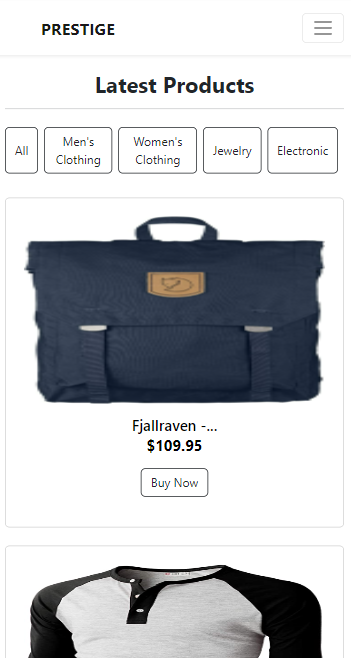
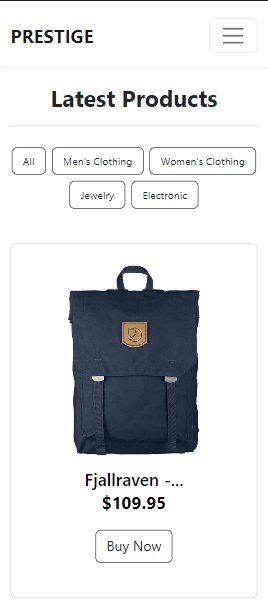
add resize event in portfolio component

diff --git a/src/components/Portfolio/Portfolio.jsx b/src/components/Portfolio/Portfolio.jsx
@@ -1,24 +1,24 @@
 import React, { useRef, useState } from 'react';
 import s from './Portfolio.module.scss';
 import crypto1 from '../../assets/crypto1.jpg';
-import crypto2 from '../../assets/crypto2.jpg';
+import crypto2 from '../../assets/crypto2.png';
 import filmoteka from '../../assets/filmoteka.png';
-import filmoteka2 from '../../assets/filmoteka2.jpg';
+import filmoteka2 from '../../assets/filmoteka2.png';
 import eShop from '../../assets/eShop.jpg';
 import eShop2 from '../../assets/eshop2.png';
 import iceCream from '../../assets/iceCream.jpg';
 import iceCream2 from '../../assets/iceCream2.png';
 import { useEffect } from 'react';
 import Modals from './Modals/Modals';
-import { Swiper, SwiperSlide } from 'swiper/react';
+import MobileSwiper from './MobileSwiper';
 
 const desktopImages = [crypto1, filmoteka, eShop, iceCream];
 const mobileImages = [crypto2, filmoteka2, eShop2, iceCream2];
 const projectTitles = ['Crypto', 'Filmoteka', 'Prestige', 'Ice-cream'];
 
 const Portfolio = () => {
-  const refWrapper = useRef(null);
-  const refImage = useRef(null);
+  const DESKTOP = 'desktop'
+  const MOBILE = 'mobile'
 
   const [activeIndex, setActiveIndex] = useState(0);
   const [isImgHovered, setIsImgHovered] = useState(false);
@@ -28,8 +28,10 @@ const Portfolio = () => {
   const [modalShowFilmoteka, setModalShowFilmoteka] = useState(false);
   const [modalShowPrestige, setModalShowPrestige] = useState(false);
   const [modalShowIceCream, setModalShowIceCream] = useState(false);
-
-  const swiper = document.getElementsByClassName('swiper')[0]?.swiper;
+  const [device, setDevice] = useState(null)
+  
+  const refWrapper = useRef(null);
+  const refImage = useRef(null);
 
   const modalsSetState = [
     setModalShowCrypto,
@@ -37,9 +39,19 @@ const Portfolio = () => {
     setModalShowPrestige,
     setModalShowIceCream
   ];
-
+  
   const prevImgIndex = activeIndex ? activeIndex - 1 : desktopImages.length - 1;
   const nextImgIndex = activeIndex === desktopImages.length - 1 ? 0 : activeIndex + 1;
+
+  useEffect(() => {
+    const handleResize = () => setDevice(window.innerWidth >= 1200 ? DESKTOP : MOBILE)
+    handleResize()
+    window.addEventListener('resize', handleResize)
+
+    return () => {
+      window.removeEventListener('resize', handleResize)
+    }
+  }, [])
 
   useEffect(() => {
     const mouseover = () => setIsImgHovered(true);
@@ -56,14 +68,12 @@ const Portfolio = () => {
 
   useEffect(() => {
     let interval;
-    if (window.innerWidth >= 1200) {
-      if (isImgHovered || slideChangeClick || isModalOpen) {
-        clearInterval(interval);
+    if (device === DESKTOP) {
         if (slideChangeClick) {
           setActiveIndex(Number(slideChangeClick));
           setSlideChangeClick(null);
         }
-      } else {
+      if (!isImgHovered && !slideChangeClick && !isModalOpen) {
         interval = setInterval(() => {
           setActiveIndex((currentIndex) => {
             const nextIndex = currentIndex === desktopImages.length - 1 ? 0 : currentIndex + 1;
@@ -73,7 +83,13 @@ const Portfolio = () => {
       }
     }
     return () => clearInterval(interval);
-  }, [isImgHovered, slideChangeClick, isModalOpen]);
+  }, [isImgHovered, slideChangeClick, isModalOpen, device]);
+
+  useEffect(() => {
+    if (device === MOBILE) {
+      setActiveIndex(0);
+    }
+  }, [device])
 
   useEffect(() => {
     const wrapper = refWrapper.current;
@@ -103,10 +119,12 @@ const Portfolio = () => {
   }, []);
 
   function onClickSlideChange(e) {
-    setSlideChangeClick(e.target.dataset.index);
-    if (window.innerWidth < 1200) {
-      setActiveIndex(Number(e.target.dataset.index));
-      swiper?.slideToLoop(Number(e.target.dataset.index), 500);
+    const targetIndex = e.target.dataset.index
+    setSlideChangeClick(targetIndex);
+    if (device === MOBILE) {
+      const swiper = document.querySelector('.swiper').swiper;
+      swiper?.slideToLoop(Number(targetIndex), 500);
+      setActiveIndex(Number(targetIndex));
       setSlideChangeClick(null);
     }
   }
@@ -159,26 +177,13 @@ const Portfolio = () => {
               </div>
             </div>
 
-            <div className={s.swiper}>
-              <Swiper
-                className={s.swiperWrapper}
-                spaceBetween={0}
-                slidesPerView={1}
-                loop={true}
-                loopAdditionalSlides={3}
-                longSwipes={false}
-                onSlideChange={(e) => setActiveIndex(e.realIndex)}
-                role="button" 
-                onClick={() => onClickModalOpen()}>
-                {mobileImages.map((element) => {
-                  return (
-                    <SwiperSlide key={element}>
-                      <img src={element} className={s.swiperImg} />
-                    </SwiperSlide>
-                  );
-                })}
-              </Swiper>
-            </div>
+            <MobileSwiper
+              setActiveIndex={setActiveIndex}
+              onClickModalOpen={onClickModalOpen}
+              mobileImages={mobileImages}
+              device={device}
+              MOBILE={MOBILE}
+            />
 
             <div className={s.btnContainer} role="button" onClick={() => onClickModalOpen()}>
               <span className={s.btn__circle}></span>

diff --git a/src/components/Portfolio/MobileSwiper.jsx b/src/components/Portfolio/MobileSwiper.jsx
@@ -1,0 +1,36 @@
+import s from './Portfolio.module.scss';
+import React from 'react';
+import { Swiper, SwiperSlide } from 'swiper/react';
+
+const MobileSwiper = ({setActiveIndex, onClickModalOpen, mobileImages, device, MOBILE}) => {
+  const onSlideChangeSwiper = (e) => {
+    if (device === MOBILE) {
+      setActiveIndex(e.realIndex);
+    }
+  };
+
+  return (
+    <div className={s.swiper}>
+      <Swiper
+        className={s.swiperWrapper}
+        spaceBetween={0}
+        slidesPerView={1}
+        loop={true}
+        loopAdditionalSlides={3}
+        longSwipes={false}
+        onSlideChange={(e) => onSlideChangeSwiper(e)}
+        role="button"
+        onClick={() => onClickModalOpen()}>
+        {mobileImages.map((element) => {
+          return (
+            <SwiperSlide key={element}>
+              <img src={element} className={s.swiperImg} />
+            </SwiperSlide>
+          );
+        })}
+      </Swiper>
+    </div>
+  );
+};
+
+export default MobileSwiper;

diff --git a/public/index.html b/public/index.html
@@ -12,9 +12,8 @@
       href="https://fonts.googleapis.com/css2?family=Playfair+Display:wght@700&family=Titillium+Web:wght@400;700&display=swap"
       rel="stylesheet"
     />
-    <link rel="apple-touch-icon" href="%PUBLIC_URL%/logo192.png" />
     <link rel="manifest" href="%PUBLIC_URL%/manifest.json" />
-    <title>React App</title>
+    <title>Yurii Zarytskyi</title>
   </head>
   <body>
     <noscript>You need to enable JavaScript to run this app.</noscript>

diff --git a/src/components/Portfolio/Portfolio.module.scss b/src/components/Portfolio/Portfolio.module.scss
@@ -192,6 +192,7 @@
 .swiperImg {
   display: block;
   height: 100%;
+  width: 100%;
 }
 
 .btnContainer {
